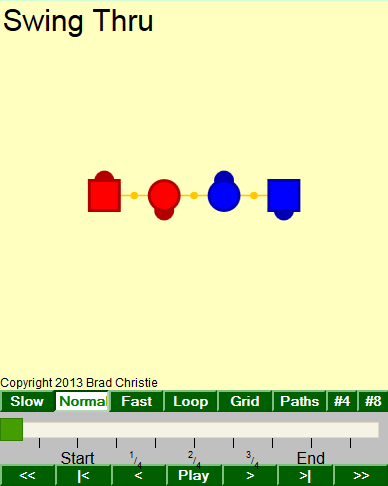
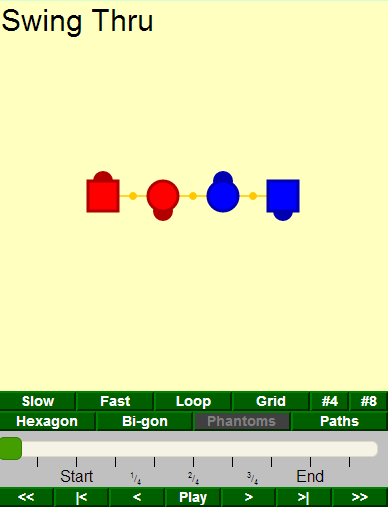
Update How to Use info and graphics

diff --git a/info/howtouse.html b/info/howtouse.html
@@ -30,12 +30,14 @@
 <script src="../ext/require.js" data-main="../src/config"></script>
 
 <script type="text/javascript">
+function setupHighlights() {
   $(document).ready(function() {
     $.each(['.animstart','.animprev','.animback','.animplay','.animforward','.animnext','.animend',
-            '.animspeed','.animparts','.animslider','.animdancer','.animhand',
-            '.animslow', '.animnormal', '.animfast',
+            '.animspeed','.animslider','.animdancer','.animhand',
+            '.animslow', '.animfast',
             '.animloop', '.animgrid', '.animpaths',
-            '.animnumbers4', '.animnumbers8'
+            '.animnumbers4', '.animnumbers8',
+            '.animhexagon','.animbigon','.animphantoms','.animparts',
             ],function(i,cls) {
       $(cls).mouseover(
         function() {  $(cls).filter('span').addClass('definition-highlight');
@@ -45,6 +47,7 @@
                       $(cls).filter('div').hide();  } );
     });
   });
+}
 </script>
 
 <title>About Taminations</title>
@@ -99,7 +102,7 @@ calls that give dancers the most difficulty.
 <li><span class="animdancer">
         Square dancers are "boys", circles are
         "girls". The dark hemisphere show the facing
-        direction. (So this example shows right-handed ocean waves.)
+        direction. So this example shows right-handed ocean waves with girls in the center.
         Click on a dancer to show a line for its path.</span>
       </li>
 
@@ -112,10 +115,6 @@ calls that give dancers the most difficulty.
     Dancers move at a Slow pace.</span>
 </li>
 
-<li><span class="animnormal"><b>Normal</b>
-    Dancers move at a Normal pace.</span>
-</li>
-
 <li><span class="animfast"><b>Fast</b>
     Dancers move at a Fast pace.</span>
 </li>
@@ -126,14 +125,40 @@ calls that give dancers the most difficulty.
 <li><span class="animgrid"><b>Grid</b>
        Shows a grid with 1-dancer-size boxes.</span></li>
 
-<li><span class="animpaths"><b>Paths</b>
-       Displays the route dancers take as colored lines.
-       This is the same as clicking on each dancer.</span></li>
-
 <li><span class="animnumbers4"><b>#4</b>
        Numbers couples 1 to 4</span></li>
 <li><span class="animnumbers8"><b>#8</b>
        Numbers dancers 1 to 8</span></li>
+
+<li><span class="animhexagon"><b>Hexagon</b>
+        One dancer is added for every 2 in the starting formation, so 4
+        couples becomes 6 couples. There's an
+        <a href="http://www.tiac.net/~mabaker/hexagon.html">
+          excellent article
+        </a>
+        on this by Clark Baker, and
+        <a href="http://legakis.net/justin/Squares/hex_anim.html">
+          more info and graphics
+        </a>
+        by Justin Legakis
+      </span></li>
+
+<li><span class="animbigon">
+<b>Bi-gon</b>
+  This variation removes half the dancers, so 4 couples becomes 2.
+  A <a href="http://www.tiac.net/~mabaker/bigon2.pdf">great article by Sue Curtis</a>
+  is required reading if you want to
+  attempt to understand this.</span>
+</li>
+
+<li><span class="animphantoms"><b>Phantoms</b>
+  Some Challenge calls have phantoms dancers.  For those, you can use the Phantom
+  button to show them.
+   </span>
+
+<li><span class="animpaths"><b>Paths</b>
+       Displays the route dancers take as colored lines.
+       This is the same as clicking on each dancer.</span></li>
 
 <li><span class="animslider">This slider shows the current position in the animation. You can
         drag it to change the position.  You can also use the mouse wheel.</span>
@@ -162,33 +187,18 @@ calls that give dancers the most difficulty.
 </ul>
 <h3>Special Features</h3>
 
-<p>Click on a dancer while holding the Shift key for these extra features.</p>
+<p>Click on a dancer for these extra features.</p>
 
 <ul>
-<li><b>Hexagon</b>
-        One dancer is added for every 2 in the starting formation, so 4
-        couples becomes 6 couples. There's an
-        <a href="http://www.tiac.net/~mabaker/hexagon.html">
-          excellent article
-        </a>
-        on this by Clark Baker, and
-        <a href="http://legakis.net/justin/Squares/hex_anim.html">
-          more info and graphics
-        </a>
-        by Justin Legakis
-      </li>
+<!--
+
+ -->
+ <li><b>Click:</b> <strong>Show Path</strong></li>
+
+ <li><b>Alt-Click:</b> <strong>Show Path with Bezier control points</strong></li>
 
 <li>
-<b>Bi-gon</b>
-  This variation removes half the dancers, so 4 couples becomes 2.
-  A <a href="http://www.tiac.net/~mabaker/bigon2.pdf">great article by Sue Curtis</a>
-  is required reading if you want to
-  attempt to understand this.
-</li>
-
-
-<li>
-<b>Barstool</b>
+<b>Control-Click:;</b> <strong>Barstool</strong>
         This fixes the position of one dancer. The barstool dancer can
         turn but not move. All the other dancers adjust by moving around
         the barstool.  Clark Baker has a
@@ -196,15 +206,15 @@ calls that give dancers the most difficulty.
           good explanation</a>.
       </li>
 
+<!--
 <li>
-
 <b>Compass</b>
         The complement to barstool - one dancer's facing direction is
         fixed, and the other dancers have to rotate the setup to adjust.
         I don't know if this has actually been done, it might not be
         practical especially for 4 couples.
       </li>
-
+ -->
 
 <!-- <b>Expand the Dance Floor</b>
         Sometimes needed to see a barstool animation.
@@ -218,22 +228,25 @@ calls that give dancers the most difficulty.
 <div style="position:relative; top:0px; left:0px">
 <img usemap="#animap" src="svganimation.png" style="border:0" alt=""/><br/>
 
-<div class="animslow" style="position:absolute; left:0px; top:390px; display:none"><img alt="" src="selectslow.png" /></div>
-<div class="animnormal" style="position:absolute; left:54px; top:390px; display:none"><img alt="" src="selectslow.png" /></div>
-<div class="animfast" style="position:absolute; left:108px; top:390px; display:none"><img alt="" src="selectslow.png" /></div>
-<div class="animloop" style="position:absolute; left:162px; top:390px; display:none"><img alt="" src="selectslow.png" /></div>
-<div class="animgrid" style="position:absolute; left:216px; top:390px; display:none"><img alt="" src="selectslow.png" /></div>
-<div class="animpaths" style="position:absolute; left:270px; top:390px; display:none"><img alt="" src="selectslow.png" /></div>
-<div class="animnumbers4" style="position:absolute; left:324px; top:390px; display:none"><img alt="" src="selectnum.png" /></div>
-<div class="animnumbers8" style="position:absolute; left:357px; top:390px; display:none"><img alt="" src="selectnum.png" /></div>
+<div class="animslow" style="position:absolute; left:0px; top:389px; display:none"><img alt="" src="selectslow.png" /></div>
+<div class="animfast" style="position:absolute; left:76px; top:389px; display:none"><img alt="" src="selectslow.png" /></div>
+<div class="animloop" style="position:absolute; left:154px; top:389px; display:none"><img alt="" src="selectslow.png" /></div>
+<div class="animgrid" style="position:absolute; left:232px; top:389px; display:none"><img alt="" src="selectslow.png" /></div>
+<div class="animnumbers4" style="position:absolute; left:310px; top:389px; display:none"><img alt="" src="selectnum.png" /></div>
+<div class="animnumbers8" style="position:absolute; left:348px; top:389px; display:none"><img alt="" src="selectnum.png" /></div>
 
-<div class="animstart" style="position:absolute; left:0px; top:464px; display:none"><img alt="" src="selectplay.png" /></div>
-<div class="animprev" style="position:absolute; left:54px; top:464px; display: none"><img alt="" src="selectplay.png" /></div>
-<div class="animback" style="position:absolute; left:110px; top:464px; display:none"><img alt="" src="selectplay.png" /></div>
-<div class="animplay" style="position:absolute; left:167px; top:464px; display:none"><img alt="" src="selectplay.png" /></div>
-<div class="animforward" style="position:absolute; left:223px; top:464px; display:none"><img alt="" src="selectplay.png" /></div>
-<div class="animnext" style="position:absolute; left:278px; top:464px; display:none"><img alt="" src="selectplay.png" /></div>
-<div class="animend" style="position:absolute; left:332px; top:464px; display:none"><img alt="" src="selectplay.png" /></div>
+<div class="animhexagon" style="position:absolute; left:0px; top:409px; display:none"><img alt="" src="selectpaths.png" /></div>
+<div class="animbigon" style="position:absolute; left:96px; top:409px; display:none"><img alt="" src="selectpaths.png" /></div>
+<div class="animphantoms" style="position:absolute; left:194px; top:409px; display:none"><img alt="" src="selectpaths.png" /></div>
+<div class="animpaths" style="position:absolute; left:292px; top:409px; display:none"><img alt="" src="selectpaths.png" /></div>
+
+<div class="animstart" style="position:absolute; left:0px; top:484px; display:none"><img alt="" src="selectplay.png" /></div>
+<div class="animprev" style="position:absolute; left:54px; top:484px; display: none"><img alt="" src="selectplay.png" /></div>
+<div class="animback" style="position:absolute; left:110px; top:484px; display:none"><img alt="" src="selectplay.png" /></div>
+<div class="animplay" style="position:absolute; left:167px; top:484px; display:none"><img alt="" src="selectplay.png" /></div>
+<div class="animforward" style="position:absolute; left:223px; top:484px; display:none"><img alt="" src="selectplay.png" /></div>
+<div class="animnext" style="position:absolute; left:278px; top:484px; display:none"><img alt="" src="selectplay.png" /></div>
+<div class="animend" style="position:absolute; left:332px; top:484px; display:none"><img alt="" src="selectplay.png" /></div>
 
 <div class="animdancer" style="position:absolute; left:88px; top:169px; display:none"><img alt="" src="selectd1.png" /></div>
 <div class="animdancer" style="position:absolute; left:148px; top:179px; display:none"><img alt="" src="selectd2.png" /></div>
@@ -243,8 +256,8 @@ calls that give dancers the most difficulty.
 <div class="animhand" style="position:absolute; left:118px; top:186px; display:none"><img alt="" src="selecthand.png" /></div>
 <div class="animhand" style="position:absolute; left:178px; top:186px; display:none"><img alt="" src="selecthand.png" /></div>
 <div class="animhand" style="position:absolute; left:236px; top:186px; display:none"><img alt="" src="selecthand.png" /></div>
-<div class="animslider" style="position:absolute; left:0px; top:418px; display:none"><img alt="" src="selectslider.png" /></div>
-<div class="animparts" style="position:absolute; left:50px; top:444px; display:none"><img alt="" src="selectparts.png" /></div>
+<div class="animslider" style="position:absolute; left:0px; top:436px; display:none"><img alt="" src="selectslider.png" /></div>
+<div class="animparts" style="position:absolute; left:50px; top:464px; display:none"><img alt="" src="selectparts.png" /></div>
 
 </div>
 <map name="animap">
@@ -264,36 +277,40 @@ calls that give dancers the most difficulty.
   <area class="animdancer" shape="rect" href="#" coords="272,177,303,219" alt=""/>
 
   <!-- slow, normal, fast -->
-  <area class="animslow" shape="rect" href="#" coords="0,390,54,414" alt=""/>
-  <area class="animnormal" shape="rect" href="#" coords="54,390,108,414" alt=""/>
-  <area class="animfast" shape="rect" href="#" coords="108,390,162,414" alt=""/>
-  <!-- loop, grid, paths -->
+  <area class="animslow" shape="rect" href="#" coords="0,390,76,414" alt=""/>
+  <area class="animfast" shape="rect" href="#" coords="76,390,150,414" alt=""/>
+  <!-- loop, grid -->
   <area class="animloop" shape="rect" href="#" coords="162,390,216,414" alt=""/>
   <area class="animgrid" shape="rect" href="#" coords="216,390,270,414" alt=""/>
-  <area class="animpaths" shape="rect" href="#" coords="270,390,324,414" alt=""/>
   <!-- numbers -->
   <area class="animnumbers4" shape="rect" href="#" coords="324,390,357,414" alt=""/>
   <area class="animnumbers8" shape="rect" href="#" coords="357,390,390,414" alt=""/>
 
+  <!-- Hexagon, Bi-gon, Phantoms, Paths -->
+  <area class="animhexagon" shape="rect" href="#" coords="0,414,96,438" alt=""/>
+  <area class="animbigon" shape="rect" href="#" coords="96,414,194,438" alt=""/>
+  <area class="animphantoms" shape="rect" href="#" coords="194,414,292,438" alt=""/>
+  <area class="animpaths" shape="rect" href="#" coords="292,414,390,438" alt=""/>
+
   <!-- slider -->
-  <area class="animslider" shape="rect" href="#" coords="0,418,380,442" alt=""/>
+  <area class="animslider" shape="rect" href="#" coords="0,438,380,462" alt=""/>
   <!--  parts  -->
-  <area class="animparts" shape="rect" href="#" coords="59,432,380,452" alt=""/>
+  <area class="animparts" shape="rect" href="#" coords="59,452,380,472" alt=""/>
 
   <!-- rewind -->
-  <area class="animstart" shape="rect" href="#" coords="0,462,56,481" alt=""/>
+  <area class="animstart" shape="rect" href="#" coords="0,482,56,501" alt=""/>
   <!-- skip back -->
-  <area class="animprev" shape="rect" href="#" coords="57,462,113,481" alt=""/>
+  <area class="animprev" shape="rect" href="#" coords="57,482,113,501" alt=""/>
   <!-- move back -->
-  <area class="animback" shape="rect" href="#" coords="114,462,170,481" alt=""/>
+  <area class="animback" shape="rect" href="#" coords="114,482,170,501" alt=""/>
   <!-- play/stop -->
-  <area class="animplay" shape="rect" href="#" coords="171,462,227,481" alt=""/>
+  <area class="animplay" shape="rect" href="#" coords="171,482,227,501" alt=""/>
   <!-- move forward -->
-  <area class="animforward" shape="rect" href="#" coords="228,462,284,481" alt=""/>
+  <area class="animforward" shape="rect" href="#" coords="228,482,284,501" alt=""/>
   <!-- skip forward -->
-  <area class="animnext" shape="rect" href="#" coords="285,462,341,481" alt=""/>
+  <area class="animnext" shape="rect" href="#" coords="285,482,341,501" alt=""/>
   <!-- move to end -->
-  <area class="animend" shape="rect" href="#" coords="342,462,399,481" alt=""/>
+  <area class="animend" shape="rect" href="#" coords="342,482,399,501" alt=""/>
 
 </map>
 

diff --git a/src/dancer.js b/src/dancer.js
@@ -87,6 +87,13 @@ define(['path','movement','vector','affinetransform','color'],
         else
           dancer.showBezier();
       }
+      else if (ev.ctrlKey) {
+        if (dancer.tamsvg.barstool == dancer)
+          dancer.tamsvg.barstool = 0;
+        else
+          dancer.tamsvg.barstool = dancer;
+        dancer.tamsvg.paint();
+      }
       else {
         if (dancer.pathVisible)
           dancer.hidePath();

diff --git a/src/config.js b/src/config.js
@@ -89,6 +89,8 @@ if (navigator.userAgent.indexOf('MSIE 8') > 0) {
     require(['tampage'],movementsPageInit);
   else if (document.URL.search('search.html') >= 0)
     require(['search'],function() { });
+  else if (document.URL.search('howtouse.html') >= 0)
+    require(['tampage'],function() { setupHighlights(); });
   else
     require(['tampage'],function() { });
 }
